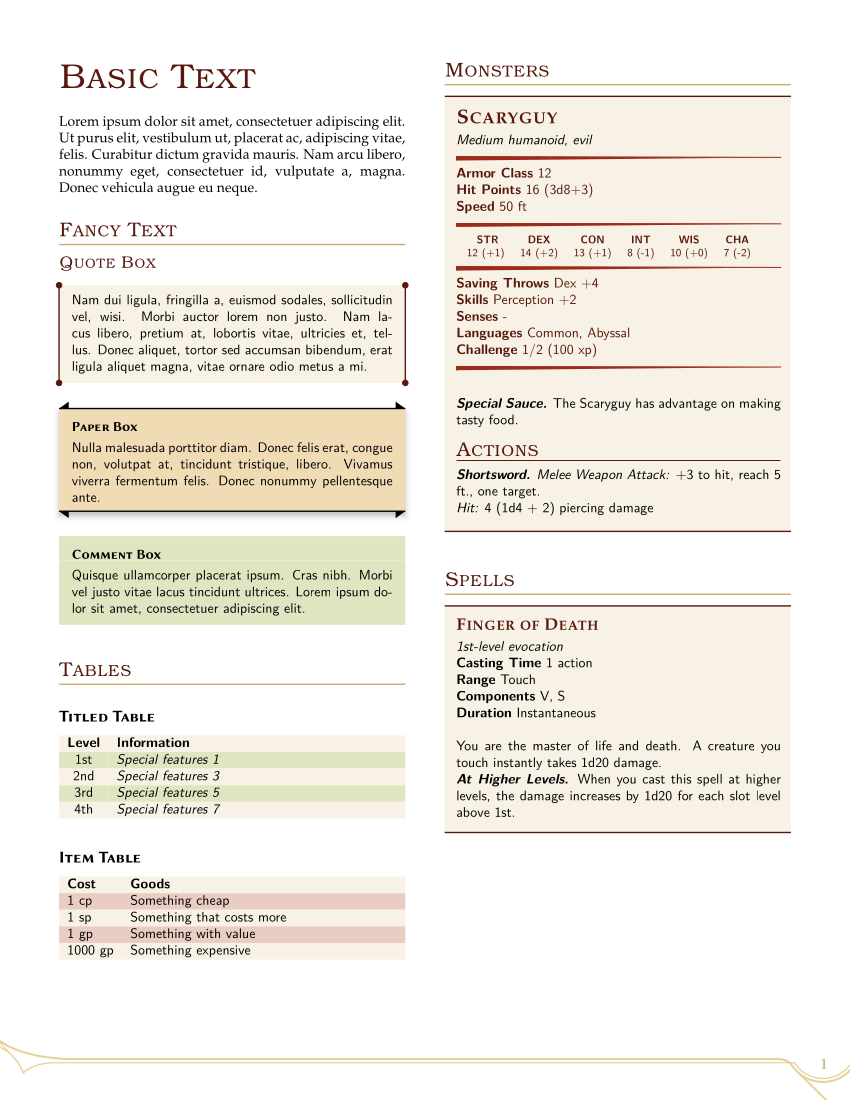
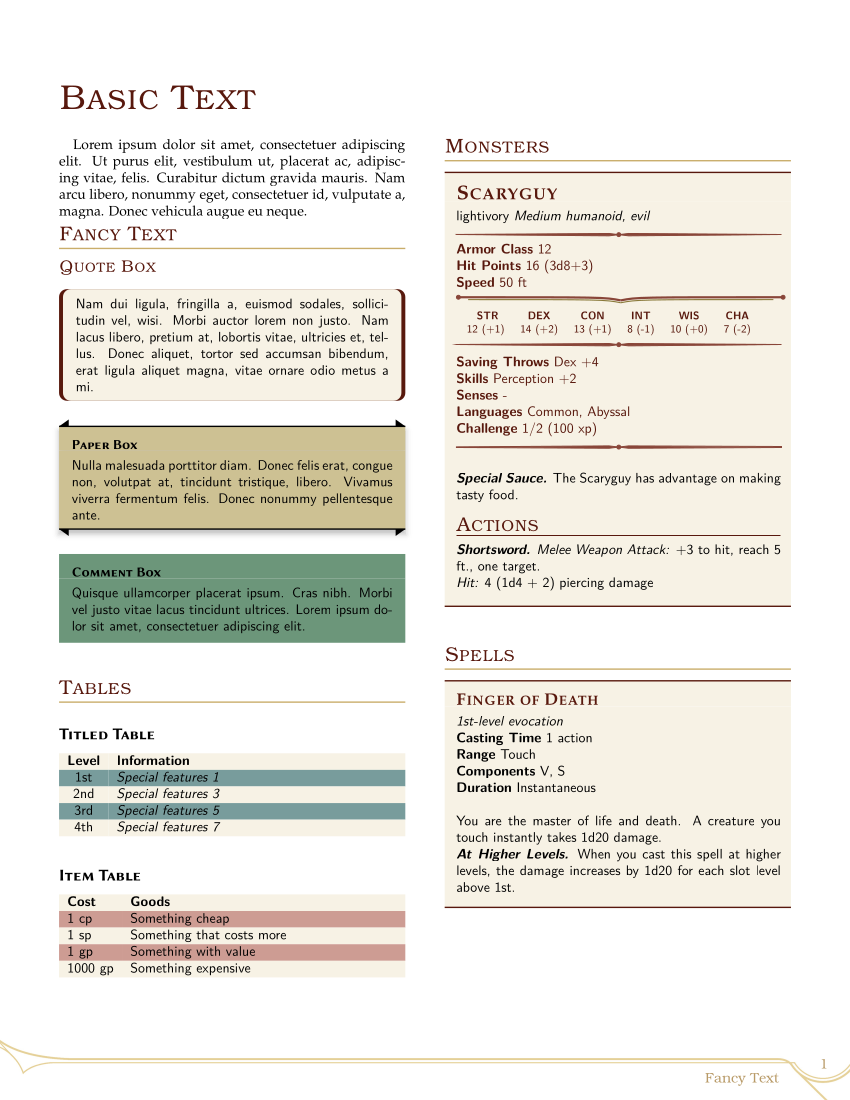
Update README and Screenshot to latest styles

diff --git a/example.tex b/example.tex
@@ -59,7 +59,7 @@
     \textit{Medium humanoid, evil} \\
     \spotline{basered}
     \basics[armorclass=12, hitpoints=16 (3d8+3), speed=50 ft]
-    \doublevline{basered}
+    \doublevline{basered}{baseyellow}
     \stats[STR = 12 (+1), DEX = 14 (+2), CON = 13 (+1), 
            INT = 8 (-1),  WIS = 10 (+0), CHA = 7 (-2)]
     \spotline{basered}

diff --git a/README.md b/README.md
@@ -11,14 +11,15 @@ original file is based on
  - Added a custom caption for putting titles on tables etc.
  - Added a spellbox option based on the monsterbox type.
  - Cleaned up monsterbox to match more thematically with choices so far.
- - Gave tables color options and removed itemtable
- - Gave all three box types color options
- - removed dnd-specific naming from files
-
+ - Gave tables color options and removed itemtable.
+ - Gave all three box types color options.
+ - Removed dnd-specific naming from files.
+ - Original quotebox style just wasn't satisfying; I made it better.
+ - Built two better hline options for monsterbox or anywhere desired with color options.
+ 
 ### Plans for the future
  - Add framing options to tables
  - Generalize themeing to beyond D&D
- - Change hline definition in monsterbox to something better
  - Create package options to choose theme (fantasy, scifi, steampunk, etc.)
  - Make full-width boxes and tables possible
  - Look into the original to-dos listed below
